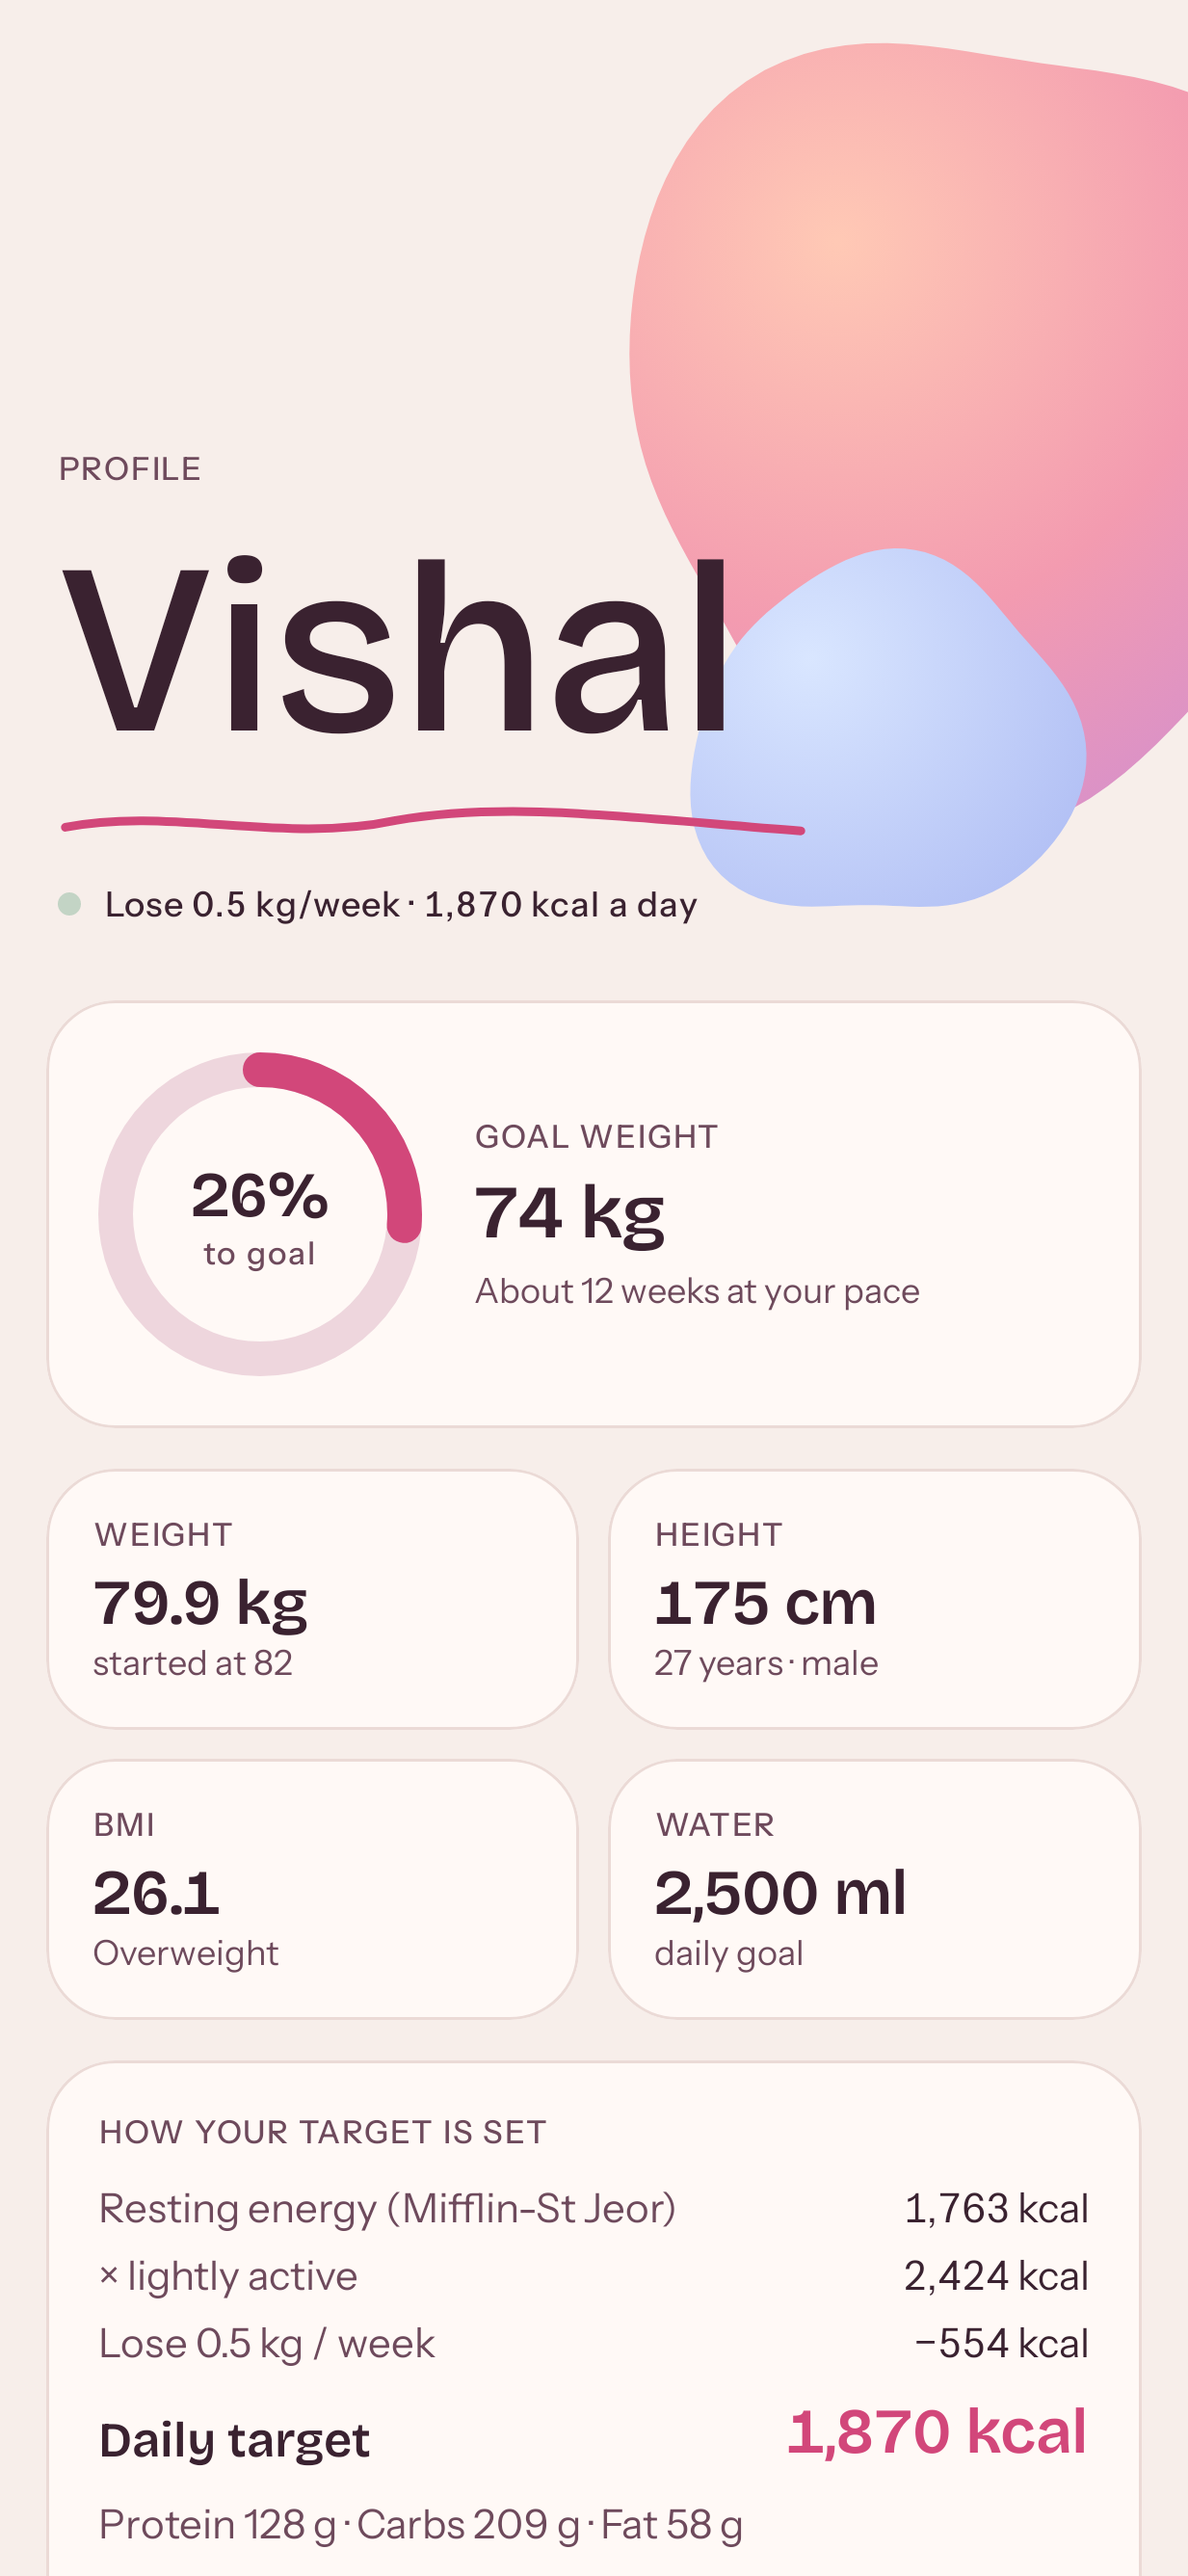
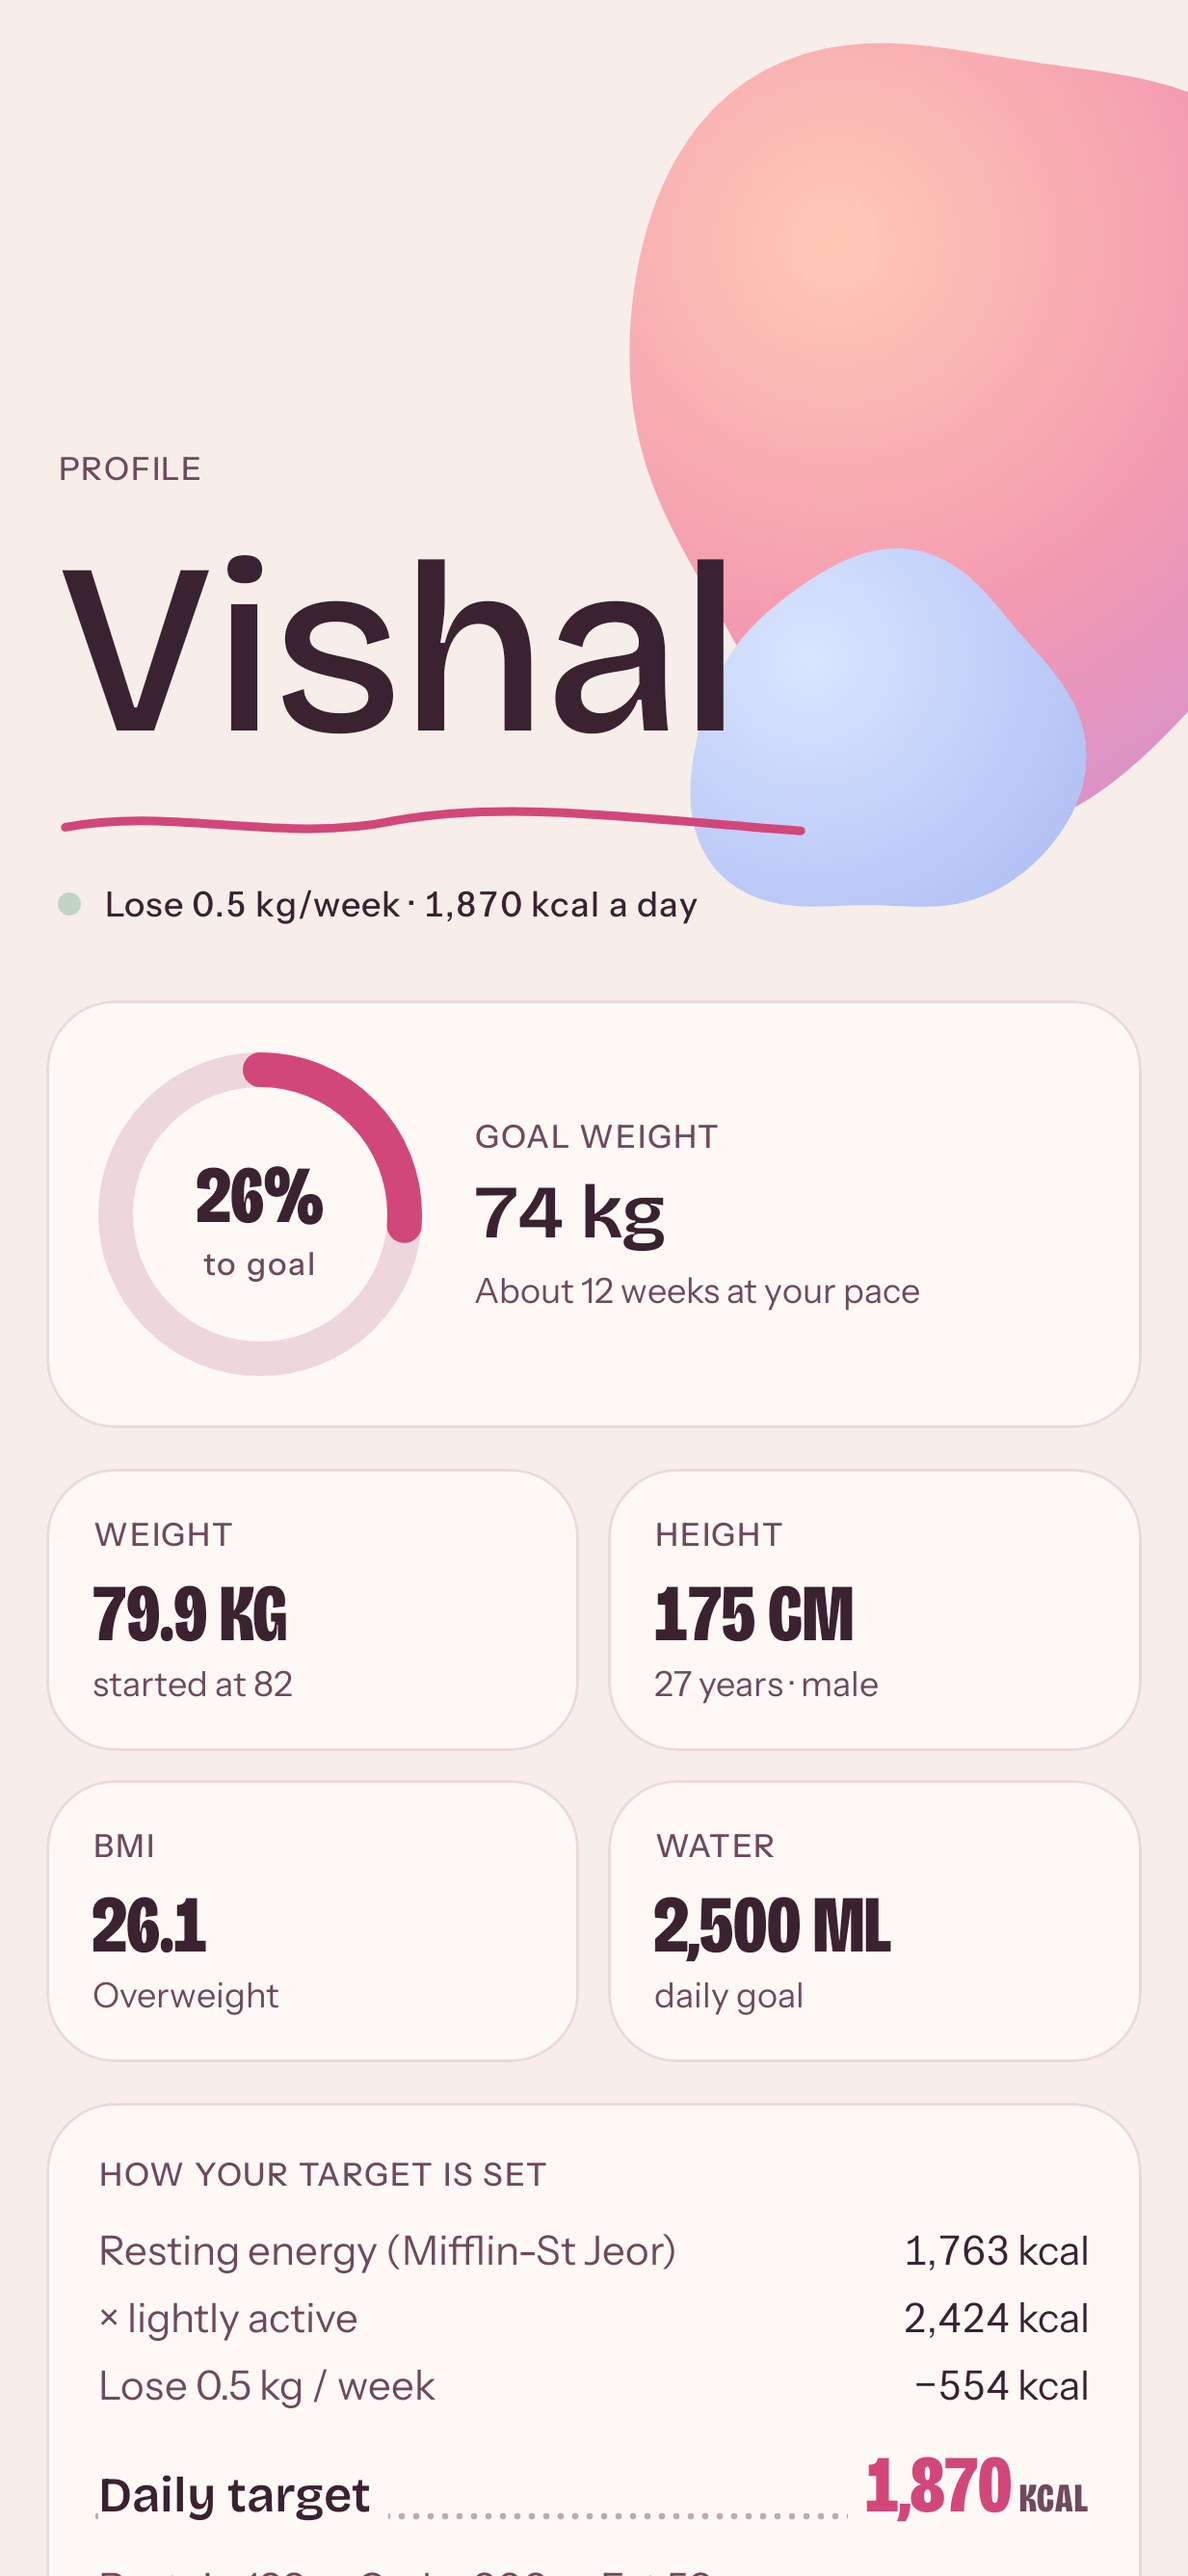
Menu-board redesign preview: dotted leaders and poster numbers
Calories, weights and targets are set like prices on a menu board:
food name, a dotted leader, and the number in the condensed poster
cut, sharing one baseline. Applied to logged meals, food search rows,
Eaten/Goal, water, day cards, weight and profile tiles. Not released.

Claude-Session: https://claude.ai/code/session_01D27EreWpUMY8orMrKfxdq9

diff --git a/app/src/main/java/com/mrboora/plate/ui/screens/Today.kt b/app/src/main/java/com/mrboora/plate/ui/screens/Today.kt
@@ -46,6 +46,7 @@ import androidx.compose.ui.graphics.Color
 import androidx.compose.ui.text.TextStyle
 import androidx.compose.ui.text.style.TextOverflow
 import androidx.compose.ui.unit.dp
+import androidx.compose.ui.unit.sp
 import com.mrboora.plate.data.FoodEntry
 import com.mrboora.plate.data.Meal
 import com.mrboora.plate.data.Profile
@@ -57,6 +58,7 @@ import com.mrboora.plate.ui.components.ProgressRing
 import com.mrboora.plate.ui.components.TABULAR
 import com.mrboora.plate.ui.components.IndexLabel
 import com.mrboora.plate.ui.components.Ticker
+import com.mrboora.plate.ui.components.MenuLine
 import com.mrboora.plate.ui.theme.PosterType
 import com.mrboora.plate.ui.theme.Plate
 import java.time.LocalDate
@@ -196,7 +198,7 @@ private fun Hero(eaten: Float, t: Targets, entries: List<FoodEntry>, modifier: M
 private fun Stat(label: String, value: String) {
     Column {
         Eyebrow(label)
-        Text(value, style = MaterialTheme.typography.headlineSmall.merge(tab))
+        Text(value, style = PosterType.number)
     }
 }
 
@@ -226,7 +228,10 @@ private fun WaterCard(ml: Int, goal: Int, onWater: (Int) -> Unit, modifier: Modi
         Row(verticalAlignment = Alignment.CenterVertically) {
             Column(Modifier.weight(1f)) {
                 Eyebrow("Water")
-                Text("%,d / %,d ml".format(ml, goal), style = MaterialTheme.typography.titleLarge.merge(tab))
+                Row(verticalAlignment = Alignment.Bottom) {
+                    Text("%,d".format(ml), style = PosterType.number)
+                    Text(" / %,d ML".format(goal), style = PosterType.index, color = c.muted, modifier = Modifier.padding(bottom = 2.dp))
+                }
             }
             FilledTonalIconButton({ onWater(-250) }, enabled = ml > 0) { Icon(Icons.Rounded.Remove, "Remove 250 ml") }
             FilledTonalIconButton({ onWater(250) }) { Icon(Icons.Rounded.Add, "Add 250 ml") }
@@ -262,7 +267,7 @@ private fun MealsCard(
             Column(Modifier.weight(1f).padding(start = 4.dp)) {
                 Text("MEALS", style = PosterType.section)
                 Text(
-                    if (items.isEmpty()) "Nothing yet" else "%,d kcal".format(items.sumOf { it.kcal.toDouble() }.roundToInt()),
+                    if (items.isEmpty()) "Nothing yet" else "%,d kcal · tap a food to change the amount".format(items.sumOf { it.kcal.toDouble() }.roundToInt()),
                     style = MaterialTheme.typography.bodySmall.merge(tab), color = c.muted,
                 )
             }
@@ -273,7 +278,7 @@ private fun MealsCard(
             Row(verticalAlignment = Alignment.CenterVertically) {
                 IndexLabel(i + 1, Modifier.padding(start = 4.dp, end = 10.dp).width(20.dp))
                 Column(Modifier.weight(1f).clickable { editing = e }) {
-                    Text(e.name, style = MaterialTheme.typography.titleSmall, maxLines = 1, overflow = TextOverflow.Ellipsis)
+                    MenuLine(e.name, "${e.kcal.roundToInt()}", numberStyle = PosterType.number.copy(fontSize = 24.sp, lineHeight = 24.sp))
                     val brand = if (e.brand.isNotBlank()) "${e.brand} · " else ""
                     val time = java.time.Instant.ofEpochMilli(e.createdAt).atZone(java.time.ZoneId.systemDefault())
                         .format(DateTimeFormatter.ofPattern("h:mm a"))
@@ -283,7 +288,7 @@ private fun MealsCard(
                         style = MaterialTheme.typography.bodySmall.merge(tab), color = c.muted, maxLines = 1, overflow = TextOverflow.Ellipsis,
                     )
                 }
-                Text("${e.kcal.roundToInt()}", style = MaterialTheme.typography.titleMedium.merge(tab), modifier = Modifier.padding(end = 4.dp))
+                Spacer(Modifier.width(8.dp))
                 FilledTonalIconButton({ onAddPortion(e) }, modifier = Modifier.size(40.dp)) {
                     Icon(Icons.Rounded.Add, "Add another ${e.name}", modifier = Modifier.size(20.dp))
                 }

diff --git a/app/src/main/java/com/mrboora/plate/ui/components/Poster.kt b/app/src/main/java/com/mrboora/plate/ui/components/Poster.kt
@@ -18,6 +18,13 @@ import androidx.compose.ui.semantics.contentDescription
 import androidx.compose.ui.semantics.semantics
 import androidx.compose.ui.text.style.TextOverflow
 import androidx.compose.ui.unit.dp
+import androidx.compose.foundation.layout.Row
+import androidx.compose.foundation.layout.wrapContentWidth
+import androidx.compose.ui.Alignment
+import androidx.compose.ui.draw.drawBehind
+import androidx.compose.ui.geometry.Offset
+import androidx.compose.ui.text.TextStyle
+import androidx.compose.material3.MaterialTheme
 import com.mrboora.plate.ui.theme.Plate
 import com.mrboora.plate.ui.theme.PosterType
 
@@ -67,4 +74,50 @@ fun Ticker(
 @Composable
 fun IndexLabel(n: Int, modifier: Modifier = Modifier, color: Color = Plate.colors.accent) {
     Text("%02d".format(n), style = PosterType.index, color = color, modifier = modifier)
+}
+
+/**
+ * A menu-board line: name, a dotted leader, then the number set like a price.
+ * "Poha ··········· 260". The dots run behind the text and are covered by [background],
+ * so they fill exactly the gap whatever the lengths.
+ */
+@Composable
+fun MenuLine(
+    name: String,
+    number: String,
+    modifier: Modifier = Modifier,
+    unit: String = "",
+    nameStyle: TextStyle = MaterialTheme.typography.titleSmall,
+    numberStyle: TextStyle = PosterType.number,
+    numberColor: Color = Plate.colors.ink,
+    background: Color = Plate.colors.card,
+    maxLines: Int = 1,
+) {
+    val dots = Plate.colors.muted.copy(alpha = 0.45f)
+    Row(
+        modifier.fillMaxWidth().drawBehind {
+            val y = size.height - 6.dp.toPx()
+            val step = 5.dp.toPx()
+            var x = 0f
+            while (x < size.width) {
+                drawCircle(dots, radius = 1.1.dp.toPx(), center = Offset(x, y))
+                x += step
+            }
+        },
+    ) {
+        // Name, number and unit share one baseline, like type on a printed menu.
+        Text(
+            name, style = nameStyle, maxLines = maxLines, overflow = TextOverflow.Ellipsis,
+            modifier = Modifier.alignByBaseline().weight(1f).wrapContentWidth(Alignment.Start).background(background).padding(end = 6.dp),
+        )
+        Row(Modifier.alignByBaseline().background(background).padding(start = 6.dp)) {
+            Text(number, style = numberStyle, color = numberColor, maxLines = 1, softWrap = false, modifier = Modifier.alignByBaseline())
+            if (unit.isNotEmpty()) {
+                Text(
+                    " $unit", style = PosterType.index, color = Plate.colors.muted, maxLines = 1, softWrap = false,
+                    modifier = Modifier.alignByBaseline(),
+                )
+            }
+        }
+    }
 }

diff --git a/app/src/main/java/com/mrboora/plate/ui/screens/Profile.kt b/app/src/main/java/com/mrboora/plate/ui/screens/Profile.kt
@@ -1,5 +1,7 @@
 package com.mrboora.plate.ui.screens
 
+import com.mrboora.plate.ui.theme.PosterType
+import com.mrboora.plate.ui.components.MenuLine
 import androidx.compose.animation.core.Animatable
 import androidx.compose.animation.core.FastOutSlowInEasing
 import androidx.compose.animation.core.animateDpAsState
@@ -119,7 +121,7 @@ fun ProfileScreen(
                     val progress = goalProgress(profile.goal, startKg, currentKg, profile.goalWeightKg)
                     ProgressRing(progress, Modifier.size(112.dp), stroke = 12.dp) {
                         Column(horizontalAlignment = Alignment.CenterHorizontally) {
-                            Text("${(progress * 100).roundToInt()}%", style = MaterialTheme.typography.headlineSmall.merge(tab))
+                            Text("${(progress * 100).roundToInt()}%", style = PosterType.number)
                             Text("to goal", style = MaterialTheme.typography.labelSmall, color = c.muted)
                         }
                     }
@@ -166,10 +168,10 @@ fun ProfileScreen(
                     (if (adj > 0) "+" else if (adj < 0) "−" else "") + "%,d kcal".format(abs(adj)),
                 )
                 Spacer(Modifier.height(6.dp))
-                Row(verticalAlignment = Alignment.Bottom) {
-                    Text("Daily target", Modifier.weight(1f), style = MaterialTheme.typography.titleMedium)
-                    Text("%,d kcal".format(targets.kcal), style = MaterialTheme.typography.headlineSmall.merge(tab), color = c.accent)
-                }
+                MenuLine(
+                    "Daily target", "%,d".format(targets.kcal), unit = "KCAL",
+                    nameStyle = MaterialTheme.typography.titleMedium, numberColor = c.accent,
+                )
                 Spacer(Modifier.height(10.dp))
                 Text(
                     "Protein ${targets.proteinG} g · Carbs ${targets.carbsG} g · Fat ${targets.fatG} g",
@@ -288,7 +290,7 @@ private fun Tile(label: String, value: String, sub: String, modifier: Modifier) 
     PlateCard(modifier, padding = 16.dp) {
         Eyebrow(label)
         Spacer(Modifier.height(4.dp))
-        Text(value, style = MaterialTheme.typography.headlineSmall.merge(tab))
+        Text(value.uppercase(), style = PosterType.number)
         Text(sub, style = MaterialTheme.typography.bodySmall, color = Plate.colors.muted)
     }
 }

diff --git a/app/src/main/java/com/mrboora/plate/ui/screens/Progress.kt b/app/src/main/java/com/mrboora/plate/ui/screens/Progress.kt
@@ -1,5 +1,6 @@
 package com.mrboora.plate.ui.screens
 
+import com.mrboora.plate.ui.components.MenuLine
 import androidx.compose.ui.unit.sp
 import com.mrboora.plate.ui.theme.PosterType
 import androidx.compose.animation.animateContentSize
@@ -280,7 +281,10 @@ private fun WeightCard(
         Row(Modifier.clickable(onClick = onToggle), verticalAlignment = Alignment.CenterVertically) {
             Column(Modifier.weight(1f)) {
                 Eyebrow("Weight")
-                Text("${current.clean()} kg", style = MaterialTheme.typography.headlineMedium.merge(tab))
+                Row(verticalAlignment = Alignment.Bottom) {
+                    Text(current.clean(), style = PosterType.number.copy(fontSize = 34.sp, lineHeight = 32.sp))
+                    Text(" KG", style = PosterType.index, color = c.muted, modifier = Modifier.padding(bottom = 3.dp))
+                }
                 val sign = if (change > 0) "+" else if (change < 0) "−" else "±"
                 Text("$sign${abs(change).clean()} kg since you started · goal ${goal.clean()} kg", style = MaterialTheme.typography.bodySmall.merge(tab), color = c.muted)
             }
@@ -337,8 +341,8 @@ private fun DayCard(d: DaySummary, target: Int, onOpen: () -> Unit, modifier: Mo
         }
         Spacer(Modifier.height(8.dp))
         Row(verticalAlignment = Alignment.Bottom) {
-            Text("%,d".format(d.kcal.roundToInt()), style = MaterialTheme.typography.headlineMedium.merge(tab))
-            Text(" / %,d kcal".format(target), style = MaterialTheme.typography.bodyMedium.merge(tab), color = c.muted, modifier = Modifier.padding(bottom = 4.dp))
+            Text("%,d".format(d.kcal.roundToInt()), style = PosterType.number.copy(fontSize = 34.sp, lineHeight = 32.sp))
+            Text(" / %,d KCAL".format(target), style = PosterType.index, color = c.muted, modifier = Modifier.padding(bottom = 3.dp))
             Spacer(Modifier.weight(1f))
             if (d.status == DayStatus.ON_TARGET && diff < 0) {
                 Text("%,d left".format(-diff), style = MaterialTheme.typography.bodySmall.merge(tab), color = c.muted, modifier = Modifier.padding(bottom = 4.dp))

diff --git a/app/src/main/java/com/mrboora/plate/ui/screens/AddFood.kt b/app/src/main/java/com/mrboora/plate/ui/screens/AddFood.kt
@@ -1,5 +1,7 @@
 package com.mrboora.plate.ui.screens
 
+import androidx.compose.ui.unit.sp
+import com.mrboora.plate.ui.components.MenuLine
 import com.mrboora.plate.data.Portions
 import com.mrboora.plate.ui.theme.PosterType
 import androidx.compose.foundation.clickable
@@ -416,11 +418,14 @@ private fun FoodRow(food: FoodItem, onClick: () -> Unit, onForget: ((FoodItem) -
     PlateCard(Modifier.clickable(onClick = onClick), padding = 14.dp) {
         Row(verticalAlignment = Alignment.CenterVertically) {
             Column(Modifier.weight(1f)) {
-                Text(food.name, style = MaterialTheme.typography.titleSmall, maxLines = 2, overflow = TextOverflow.Ellipsis)
+                val approx = if (food.isEstimate) "≈" else ""
+                // Menu board: the name, dots, and the calories like a price.
+                MenuLine(
+                    food.name, "$approx${food.kcal100.roundToInt()}", unit = if (food.perItem) "KCAL" else "/100 G",
+                    numberStyle = PosterType.number.copy(fontSize = 24.sp, lineHeight = 24.sp), maxLines = 2,
+                )
                 val parts = buildList {
                     if (food.brand.isNotBlank()) add(food.brand)
-                    val approx = if (food.isEstimate) "≈" else ""
-                    add(if (food.perItem) "$approx${food.kcal100.roundToInt()} kcal" else "${food.kcal100.roundToInt()} kcal / 100 g")
                     if (food.isEstimate) add("estimate")
                     if (food.source == FoodItem.Source.CUSTOM) add("your food")
                     if (food.servingLabel.isNotBlank()) add(if (food.perItem) food.servingLabel else "${food.servingLabel} = ${food.servingG.roundToInt()} g")

diff --git a/app/src/main/java/com/mrboora/plate/ui/theme/Type.kt b/app/src/main/java/com/mrboora/plate/ui/theme/Type.kt
@@ -53,6 +53,8 @@ val PlateTypography = Typography(
 object PosterType {
     val hero = TextStyle(fontFamily = Poster, fontWeight = FontWeight.ExtraBold, fontSize = 64.sp, lineHeight = 58.sp, letterSpacing = (-0.5).sp, lineHeightStyle = tight)
     val title = TextStyle(fontFamily = Poster, fontWeight = FontWeight.ExtraBold, fontSize = 40.sp, lineHeight = 38.sp, letterSpacing = (-0.2).sp, lineHeightStyle = tight)
+    /** Menu-board numbers: kcal, kg, ml, set like prices. */
+    val number = TextStyle(fontFamily = Poster, fontWeight = FontWeight.ExtraBold, fontSize = 28.sp, lineHeight = 28.sp, letterSpacing = 0.sp, lineHeightStyle = tight, fontFeatureSettings = "tnum")
     val section = TextStyle(fontFamily = Poster, fontWeight = FontWeight.ExtraBold, fontSize = 26.sp, lineHeight = 26.sp, letterSpacing = 0.2.sp, lineHeightStyle = tight)
     val ticker = TextStyle(fontFamily = Poster, fontWeight = FontWeight.ExtraBold, fontSize = 15.sp, lineHeight = 18.sp, letterSpacing = 0.8.sp)
     val index = TextStyle(fontFamily = Poster, fontWeight = FontWeight.ExtraBold, fontSize = 14.sp, lineHeight = 16.sp, letterSpacing = 0.4.sp)
